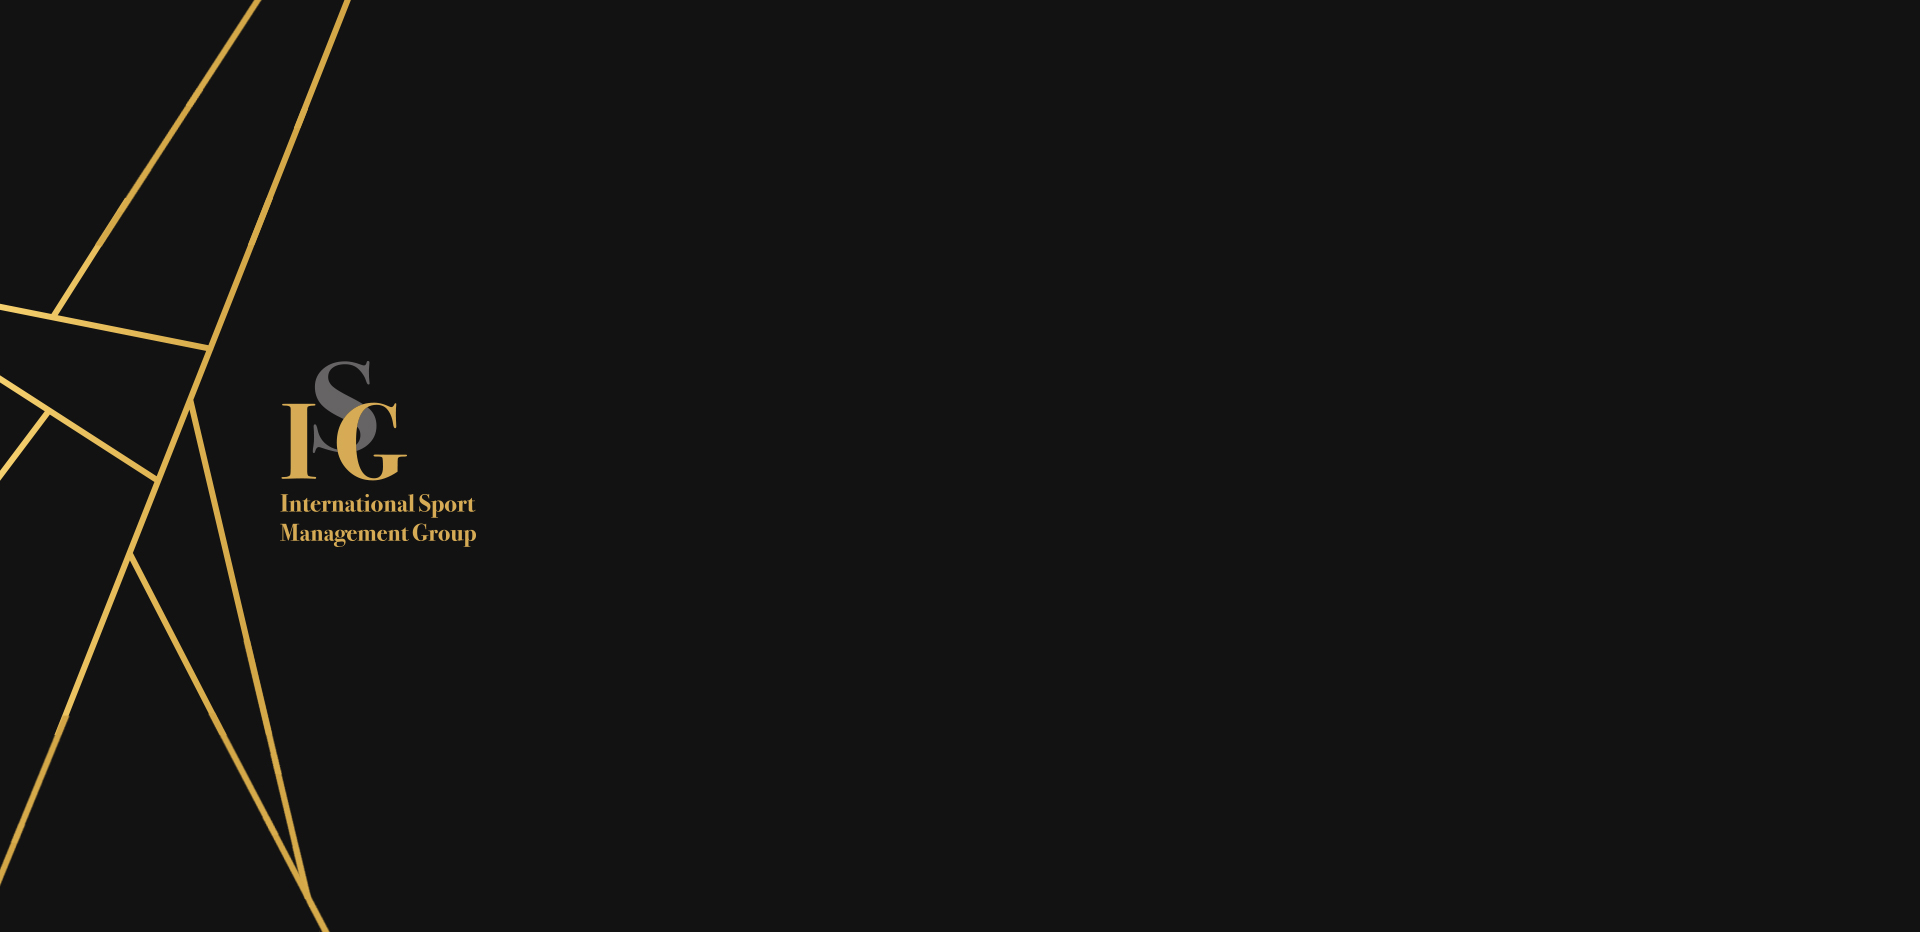
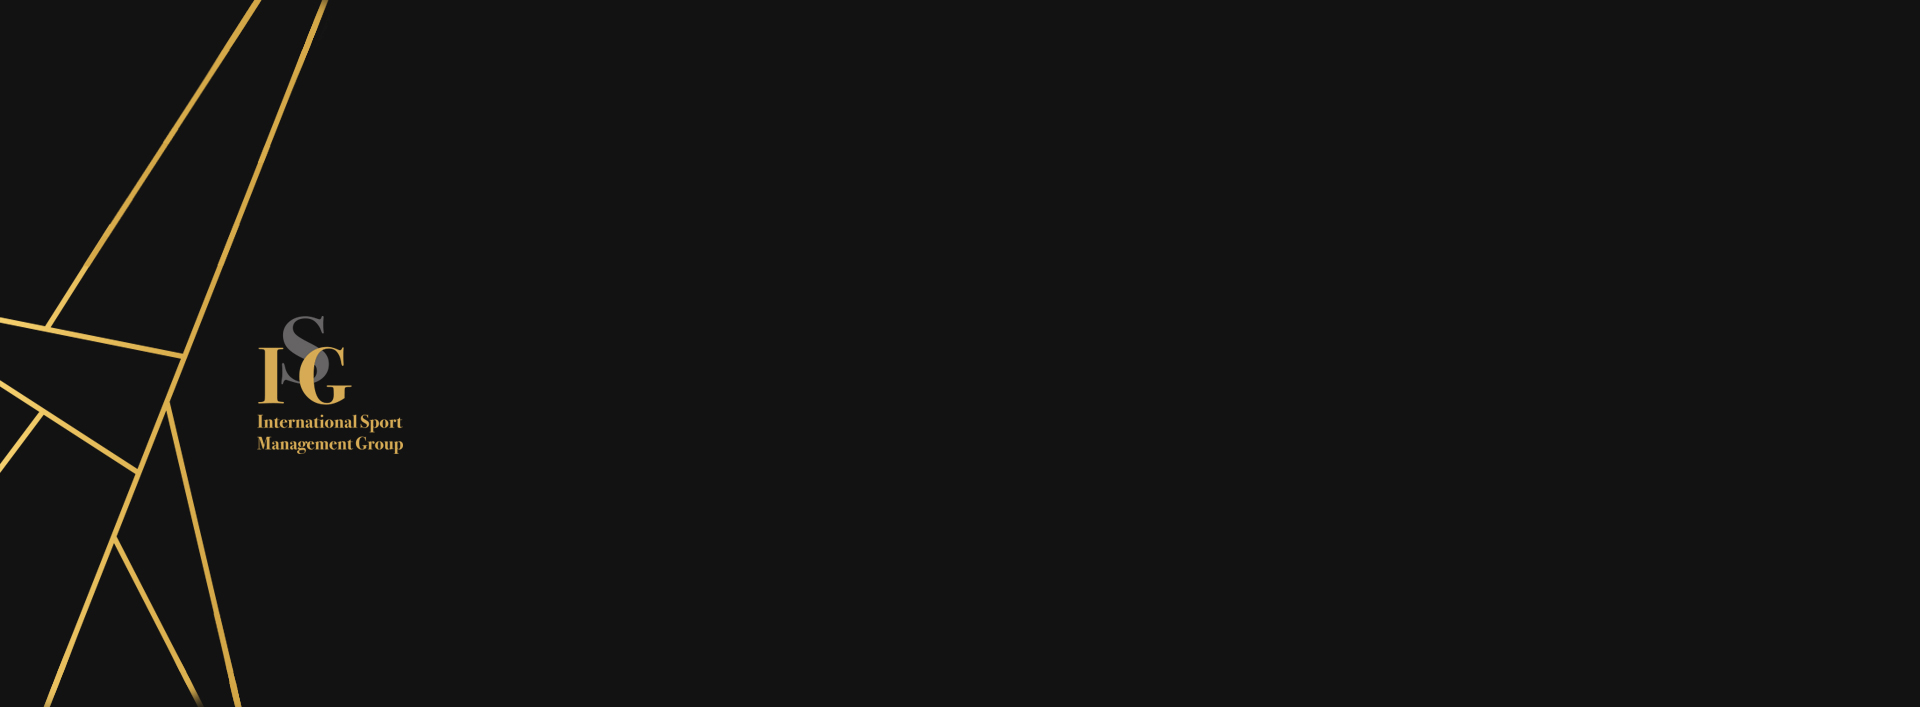
-

Changed region(s): [[0.0, 0.0, 0.25, 1.0], [0.1562, 0.9335, 0.1875, 1.0], [0.0, 0.9646, 0.0312, 1.0]]

diff --git a/css/style.css b/css/style.css
@@ -636,7 +636,7 @@ h1, h2, h3, h4, h5,
     position: relative; }
   .intro-section, .intro-section .container .row {
    /* height: 100vh;*/
-    min-height: 900px; }
+   /* min-height: 900px;*/ }
   .intro-section:before {
     content: "";
     position: absolute;
@@ -809,7 +809,7 @@ h1, h2, h3, h4, h5,
 
 .section-heading .heading {
   color: #D6AB55;
-  font-size: 2.5rem;
+  font-size:1.5rem;
   font-weight: 900; }
 
 .class-item {
